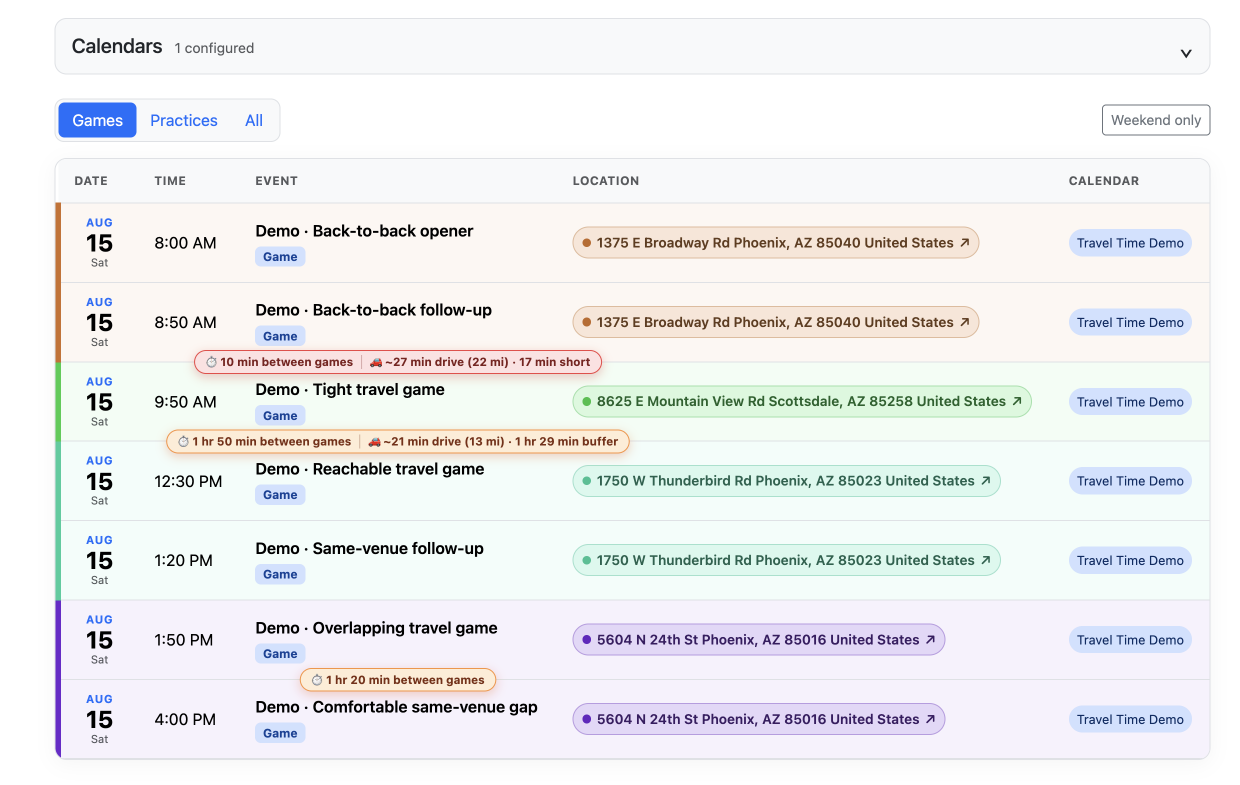
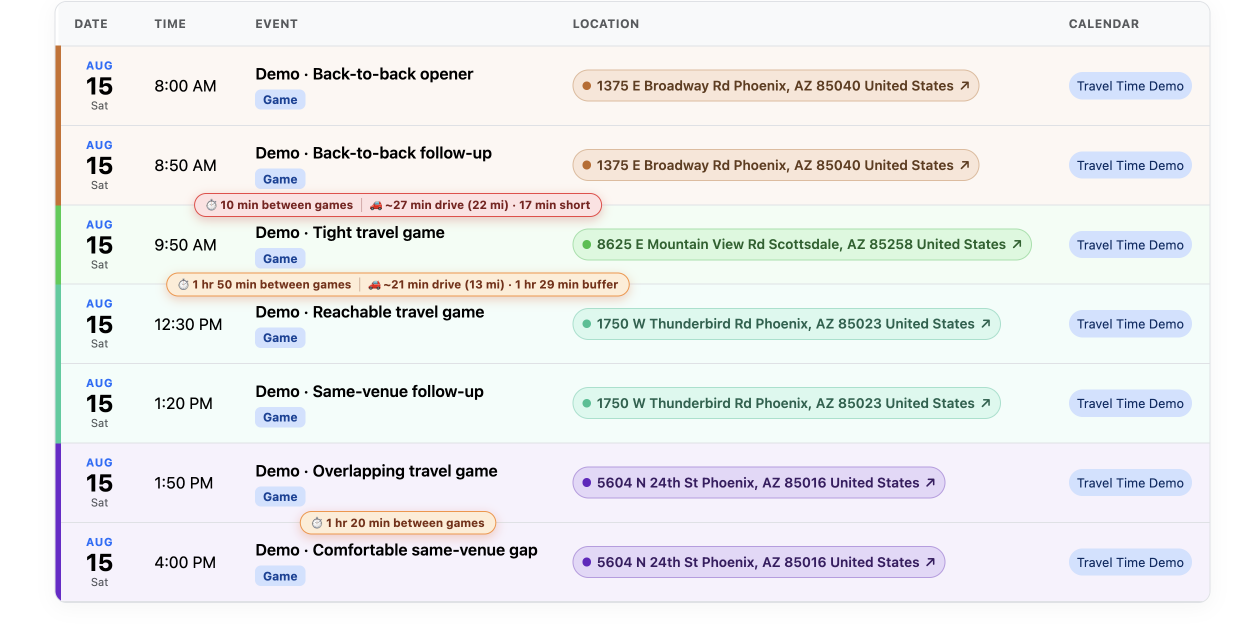
Filter events to the current week by default

diff --git a/templates/pages/home.html b/templates/pages/home.html
@@ -60,17 +60,16 @@
 </section>
 
 <section aria-labelledby="events-heading">
-  <div class="d-flex flex-column flex-sm-row justify-content-between align-items-sm-center gap-2 mb-3">
-    <nav class="nav nav-pills event-view-tabs" aria-label="Event views">
-      <a class="nav-link {% if event_view == 'games' %}active{% endif %}" href="?view=games{% if weekend_only %}&amp;weekend=1{% endif %}">Games</a>
-      <a class="nav-link {% if event_view == 'practices' %}active{% endif %}" href="?view=practices{% if weekend_only %}&amp;weekend=1{% endif %}">Practices</a>
-      <a class="nav-link {% if event_view == 'all' %}active{% endif %}" href="?view=all{% if weekend_only %}&amp;weekend=1{% endif %}">All</a>
+  <div class="event-filters d-flex flex-column flex-md-row justify-content-between align-items-md-center gap-2 mb-3">
+    <nav class="nav nav-pills event-filter-tabs" aria-label="Event types">
+      <a class="nav-link {% if event_view == 'games' %}active{% endif %}" href="?view=games&amp;range={{ event_range }}{% if request_debug %}&amp;debug=1{% endif %}">Games</a>
+      <a class="nav-link {% if event_view == 'practices' %}active{% endif %}" href="?view=practices&amp;range={{ event_range }}{% if request_debug %}&amp;debug=1{% endif %}">Practices</a>
+      <a class="nav-link {% if event_view == 'all' %}active{% endif %}" href="?view=all&amp;range={{ event_range }}{% if request_debug %}&amp;debug=1{% endif %}">All</a>
     </nav>
-    {% if weekend_only %}
-      <a class="btn btn-sm btn-primary" href="?view={{ event_view }}">✓ Weekend only</a>
-    {% else %}
-      <a class="btn btn-sm btn-outline-secondary" href="?view={{ event_view }}&amp;weekend=1">Weekend only</a>
-    {% endif %}
+    <nav class="nav nav-pills event-filter-tabs" aria-label="Date range">
+      <a class="nav-link {% if event_range == 'week' %}active{% endif %}" href="?view={{ event_view }}&amp;range=week{% if request_debug %}&amp;debug=1{% endif %}">This week</a>
+      <a class="nav-link {% if event_range == 'all' %}active{% endif %}" href="?view={{ event_view }}&amp;range=all{% if request_debug %}&amp;debug=1{% endif %}">All upcoming</a>
+    </nav>
   </div>
   <h2 class="visually-hidden" id="events-heading">Event list</h2>
   {% if events %}
@@ -178,7 +177,7 @@
     <div class="empty-state text-center">
       <div class="empty-state-icon" aria-hidden="true">📅</div>
       <h2 class="h4">No matching upcoming events</h2>
-      <p class="text-body-secondary">Try another event view, turn off the weekend filter, or add a calendar.</p>
+      <p class="text-body-secondary">Try another event type, choose All upcoming, or add a calendar.</p>
     </div>
   {% endif %}
 </section>

diff --git a/static/css/base.css b/static/css/base.css
@@ -544,14 +544,14 @@ a {
   background: #e2e3e5;
 }
 
-.event-view-tabs {
+.event-filter-tabs {
   padding: 0.2rem;
   border: 1px solid var(--bs-border-color);
   border-radius: 0.6rem;
   background: var(--bs-tertiary-bg);
 }
 
-.event-view-tabs .nav-link {
+.event-filter-tabs .nav-link {
   padding: 0.35rem 0.85rem;
 }
 
@@ -709,11 +709,11 @@ a {
 }
 
 @media (max-width: 575.98px) {
-  .event-view-tabs {
+  .event-filter-tabs {
     width: 100%;
   }
 
-  .event-view-tabs .nav-link {
+  .event-filter-tabs .nav-link {
     flex: 1;
     text-align: center;
   }

diff --git a/pages/tests.py b/pages/tests.py
@@ -225,7 +225,7 @@ class PageTests(TestCase):
                 event_type=CalendarEvent.EventType.GAME,
             )
 
-        response = self.client.get(reverse("home"))
+        response = self.client.get(reverse("home"), {"range": "all"})
 
         self.assertContains(response, "Visible game")
         self.assertContains(response, "mobile-event-card")
@@ -248,23 +248,39 @@ class PageTests(TestCase):
             event_type=CalendarEvent.EventType.GAME,
         )
 
-        response = self.client.get(reverse("home"))
+        response = self.client.get(reverse("home"), {"range": "all"})
 
         self.assertContains(
             response, 'href="https://example.com/fallback.ics"', count=2
         )
 
-    def test_home_event_views_and_weekend_filter(self):
-        calendar = Calendar.objects.create(
-            name="League", cal_url="https://example.com/views.ics", timezone="UTC"
+    @patch("pages.views.timezone.now")
+    def test_home_event_type_views_and_week_filter(self, mocked_now):
+        mocked_now.return_value = datetime(
+            2026, 8, 12, 16, 0, tzinfo=dt_timezone.utc
         )
-        now = timezone.now()
-        next_saturday = now + timedelta(days=(5 - now.weekday()) % 7 or 7)
-        next_monday = now + timedelta(days=(7 - now.weekday()) % 7 or 7)
+        calendar = Calendar.objects.create(
+            name="League",
+            cal_url="https://example.com/views.ics",
+            timezone="America/Phoenix",
+        )
+        arizona = ZoneInfo("America/Phoenix")
         for title, starts_at, event_type in (
-            ("Weekend game", next_saturday, CalendarEvent.EventType.GAME),
-            ("Weekday game", next_monday, CalendarEvent.EventType.GAME),
-            ("Weekend practice", next_saturday, CalendarEvent.EventType.PRACTICE),
+            (
+                "This week game",
+                datetime(2026, 8, 12, 10, 0, tzinfo=arizona),
+                CalendarEvent.EventType.GAME,
+            ),
+            (
+                "This week practice",
+                datetime(2026, 8, 13, 10, 0, tzinfo=arizona),
+                CalendarEvent.EventType.PRACTICE,
+            ),
+            (
+                "Next week game",
+                datetime(2026, 8, 17, 10, 0, tzinfo=arizona),
+                CalendarEvent.EventType.GAME,
+            ),
         ):
             CalendarEvent.objects.create(
                 calendar=calendar,
@@ -276,17 +292,28 @@ class PageTests(TestCase):
             )
 
         games = self.client.get(reverse("home"))
-        self.assertContains(games, "Weekend game")
-        self.assertNotContains(games, "Weekend practice")
+        self.assertEqual(games.context["event_range"], "week")
+        self.assertContains(games, "This week game")
+        self.assertNotContains(games, "This week practice")
+        self.assertNotContains(games, "Next week game")
+        self.assertNotContains(games, "Weekend only")
 
         practices = self.client.get(reverse("home"), {"view": "practices"})
-        self.assertContains(practices, "Weekend practice")
-        self.assertNotContains(practices, "Weekend game")
+        self.assertContains(practices, "This week practice")
+        self.assertNotContains(practices, "This week game")
+        self.assertNotContains(practices, "Next week game")
 
-        weekend = self.client.get(reverse("home"), {"view": "all", "weekend": "1"})
-        self.assertContains(weekend, "Weekend game")
-        self.assertContains(weekend, "Weekend practice")
-        self.assertNotContains(weekend, "Weekday game")
+        all_events = self.client.get(reverse("home"), {"view": "all"})
+        self.assertContains(all_events, "This week game")
+        self.assertContains(all_events, "This week practice")
+        self.assertNotContains(all_events, "Next week game")
+        self.assertContains(all_events, 'aria-label="Event types"')
+
+        all_upcoming = self.client.get(
+            reverse("home"), {"view": "all", "range": "all"}
+        )
+        self.assertEqual(all_upcoming.context["event_range"], "all")
+        self.assertContains(all_upcoming, "Next week game")
 
     @patch("pages.views.get_route_estimate")
     def test_game_gaps_use_a_fifty_minute_game_length(self, route_estimate):
@@ -325,7 +352,7 @@ class PageTests(TestCase):
                 address=location,
             )
 
-        response = self.client.get(reverse("home"))
+        response = self.client.get(reverse("home"), {"range": "all"})
         events = list(response.context["events"])
 
         self.assertEqual(events[0].game_gap_after, "")
@@ -361,7 +388,7 @@ class PageTests(TestCase):
                 address=location,
             )
 
-        response = self.client.get(reverse("home"))
+        response = self.client.get(reverse("home"), {"range": "all"})
         events = list(response.context["events"])
 
         self.assertEqual(events[0].game_gap_after, "")
@@ -394,7 +421,9 @@ class PageTests(TestCase):
                 address=location,
             )
 
-        response = self.client.get(reverse("home"), {"view": "all"})
+        response = self.client.get(
+            reverse("home"), {"view": "all", "range": "all"}
+        )
         events = {event.title: event for event in response.context["events"]}
 
         self.assertEqual(events["Same venue"].directions_origin, "")

diff --git a/pages/views.py b/pages/views.py
@@ -1,7 +1,7 @@
 import re
 import secrets
 from datetime import datetime, time, timedelta
-from zoneinfo import ZoneInfo, ZoneInfoNotFoundError
+from zoneinfo import ZoneInfo
 
 from django.conf import settings
 from django.contrib import messages
@@ -184,11 +184,23 @@ class HomePageView(TemplateView):
         event_view = self.request.GET.get("view", "games")
         if event_view not in {"games", "practices", "all"}:
             event_view = "games"
-        weekend_only = self.request.GET.get("weekend") == "1"
+        event_range = self.request.GET.get("range", "week")
+        if event_range not in {"week", "all"}:
+            event_range = "week"
 
+        now = timezone.now()
         events = CalendarEvent.objects.select_related("calendar").filter(
-            calendar__is_active=True, ends_at__gte=timezone.now()
+            calendar__is_active=True, ends_at__gte=now
         )
+        if event_range == "week":
+            local_timezone = ZoneInfo(settings.TIME_ZONE)
+            local_today = timezone.localtime(now, local_timezone).date()
+            week_start_date = local_today - timedelta(days=local_today.weekday())
+            week_start = datetime.combine(
+                week_start_date, time.min, tzinfo=local_timezone
+            )
+            week_end = week_start + timedelta(days=7)
+            events = events.filter(starts_at__gte=week_start, starts_at__lt=week_end)
         if event_view == "games":
             events = events.filter(
                 event_type__in=[
@@ -200,24 +212,13 @@ class HomePageView(TemplateView):
             events = events.filter(event_type=CalendarEvent.EventType.PRACTICE)
 
         events = list(events.order_by("starts_at", "title")[:2000])
-        if weekend_only:
-            weekend_events = []
-            for event in events:
-                try:
-                    calendar_tz = ZoneInfo(event.calendar.timezone)
-                except ZoneInfoNotFoundError:
-                    calendar_tz = ZoneInfo(settings.TIME_ZONE)
-                if timezone.localtime(event.starts_at, calendar_tz).weekday() >= 5:
-                    weekend_events.append(event)
-            events = weekend_events
-
         events = _annotate_game_gaps(events[:500])
         _annotate_game_directions(events)
         _annotate_travel_times(events)
         context["calendars"] = Calendar.objects.annotate(event_count=Count("events"))
         context["events"] = events
         context["event_view"] = event_view
-        context["weekend_only"] = weekend_only
+        context["event_range"] = event_range
         request_debug = _debug_tools_requested(self.request)
         context["request_debug"] = request_debug
         context["show_demo_tools"] = settings.ENABLE_DEMO_TOOLS or request_debug

diff --git a/README.md b/README.md
@@ -42,7 +42,8 @@ estimate driving time, distance, and the usable buffer between games.
 - **One schedule** — import multiple ICS calendars and see their events together.
 - **Mobile friendly** — compact event cards make dates, times, venues, and teams easy
   to scan on the go.
-- **Useful event views** — switch between games, practices, all events, and weekends.
+- **Useful event views** — filter games, practices, or all events by the current week
+  or all upcoming dates.
 - **Smart classification** — classify games, practices, tournaments, and other events
   automatically, with custom rules for each calendar.
 - **Directions in one tap** — open a venue in Google Maps, including directions from
